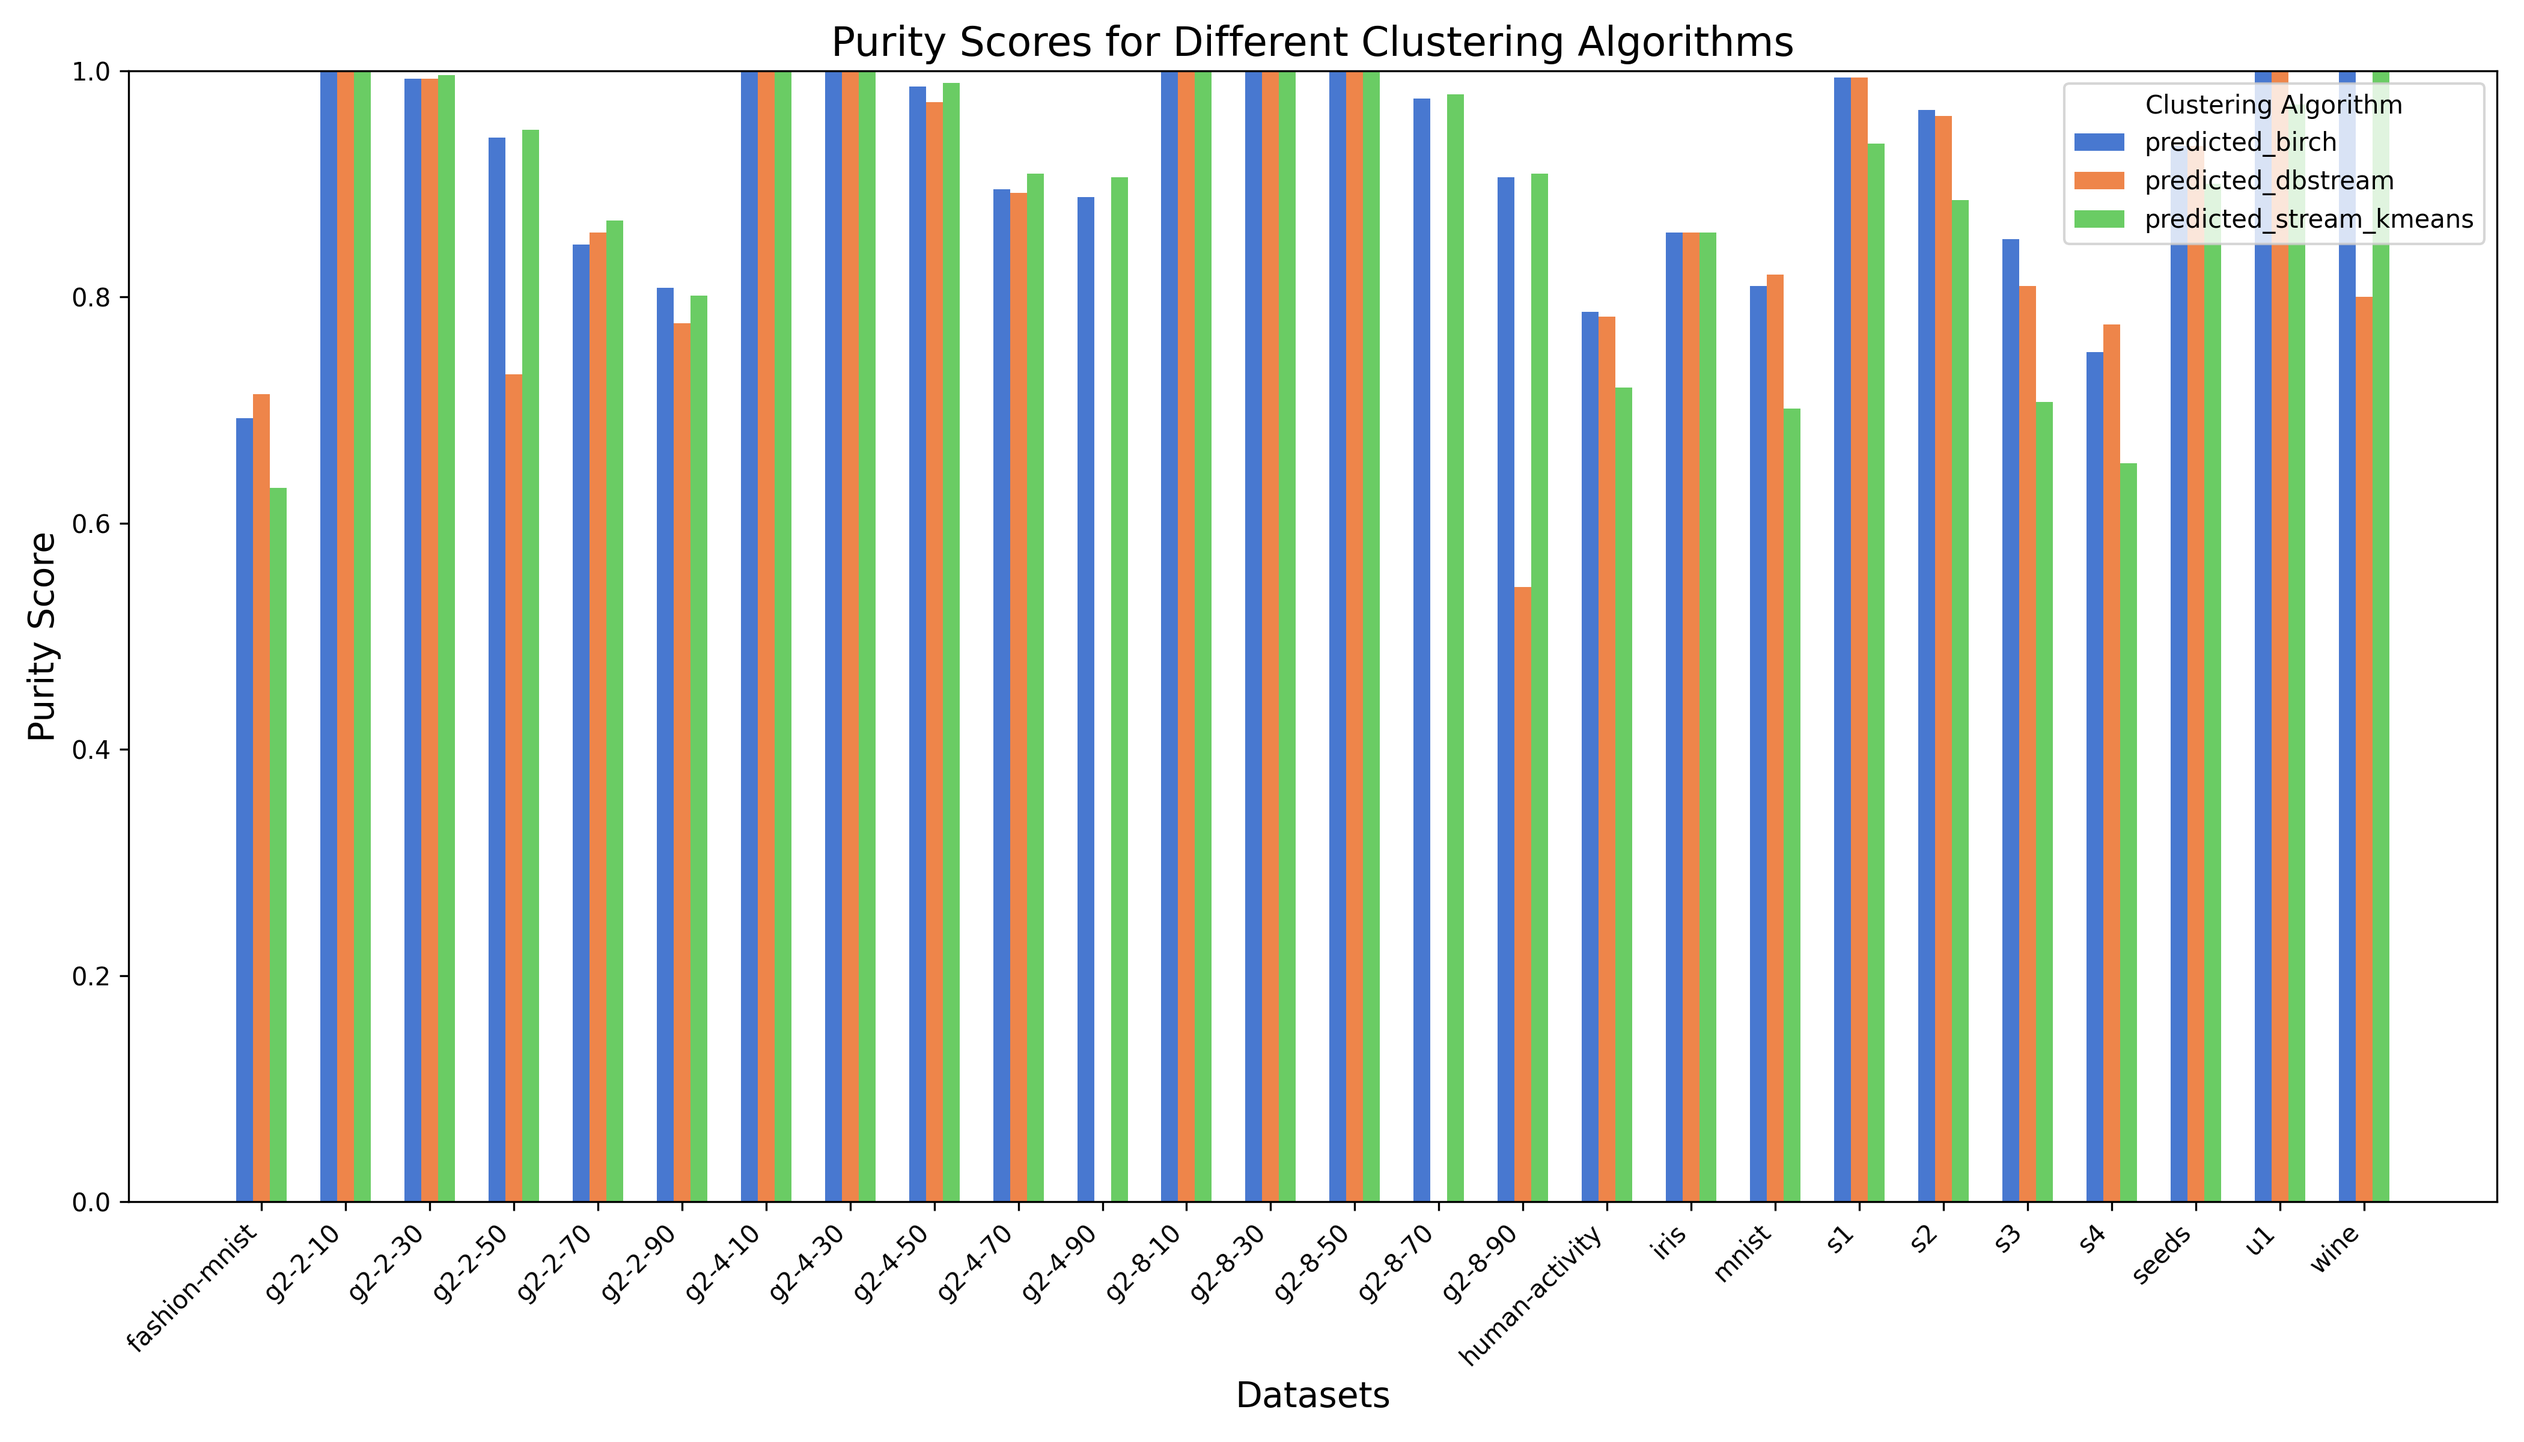
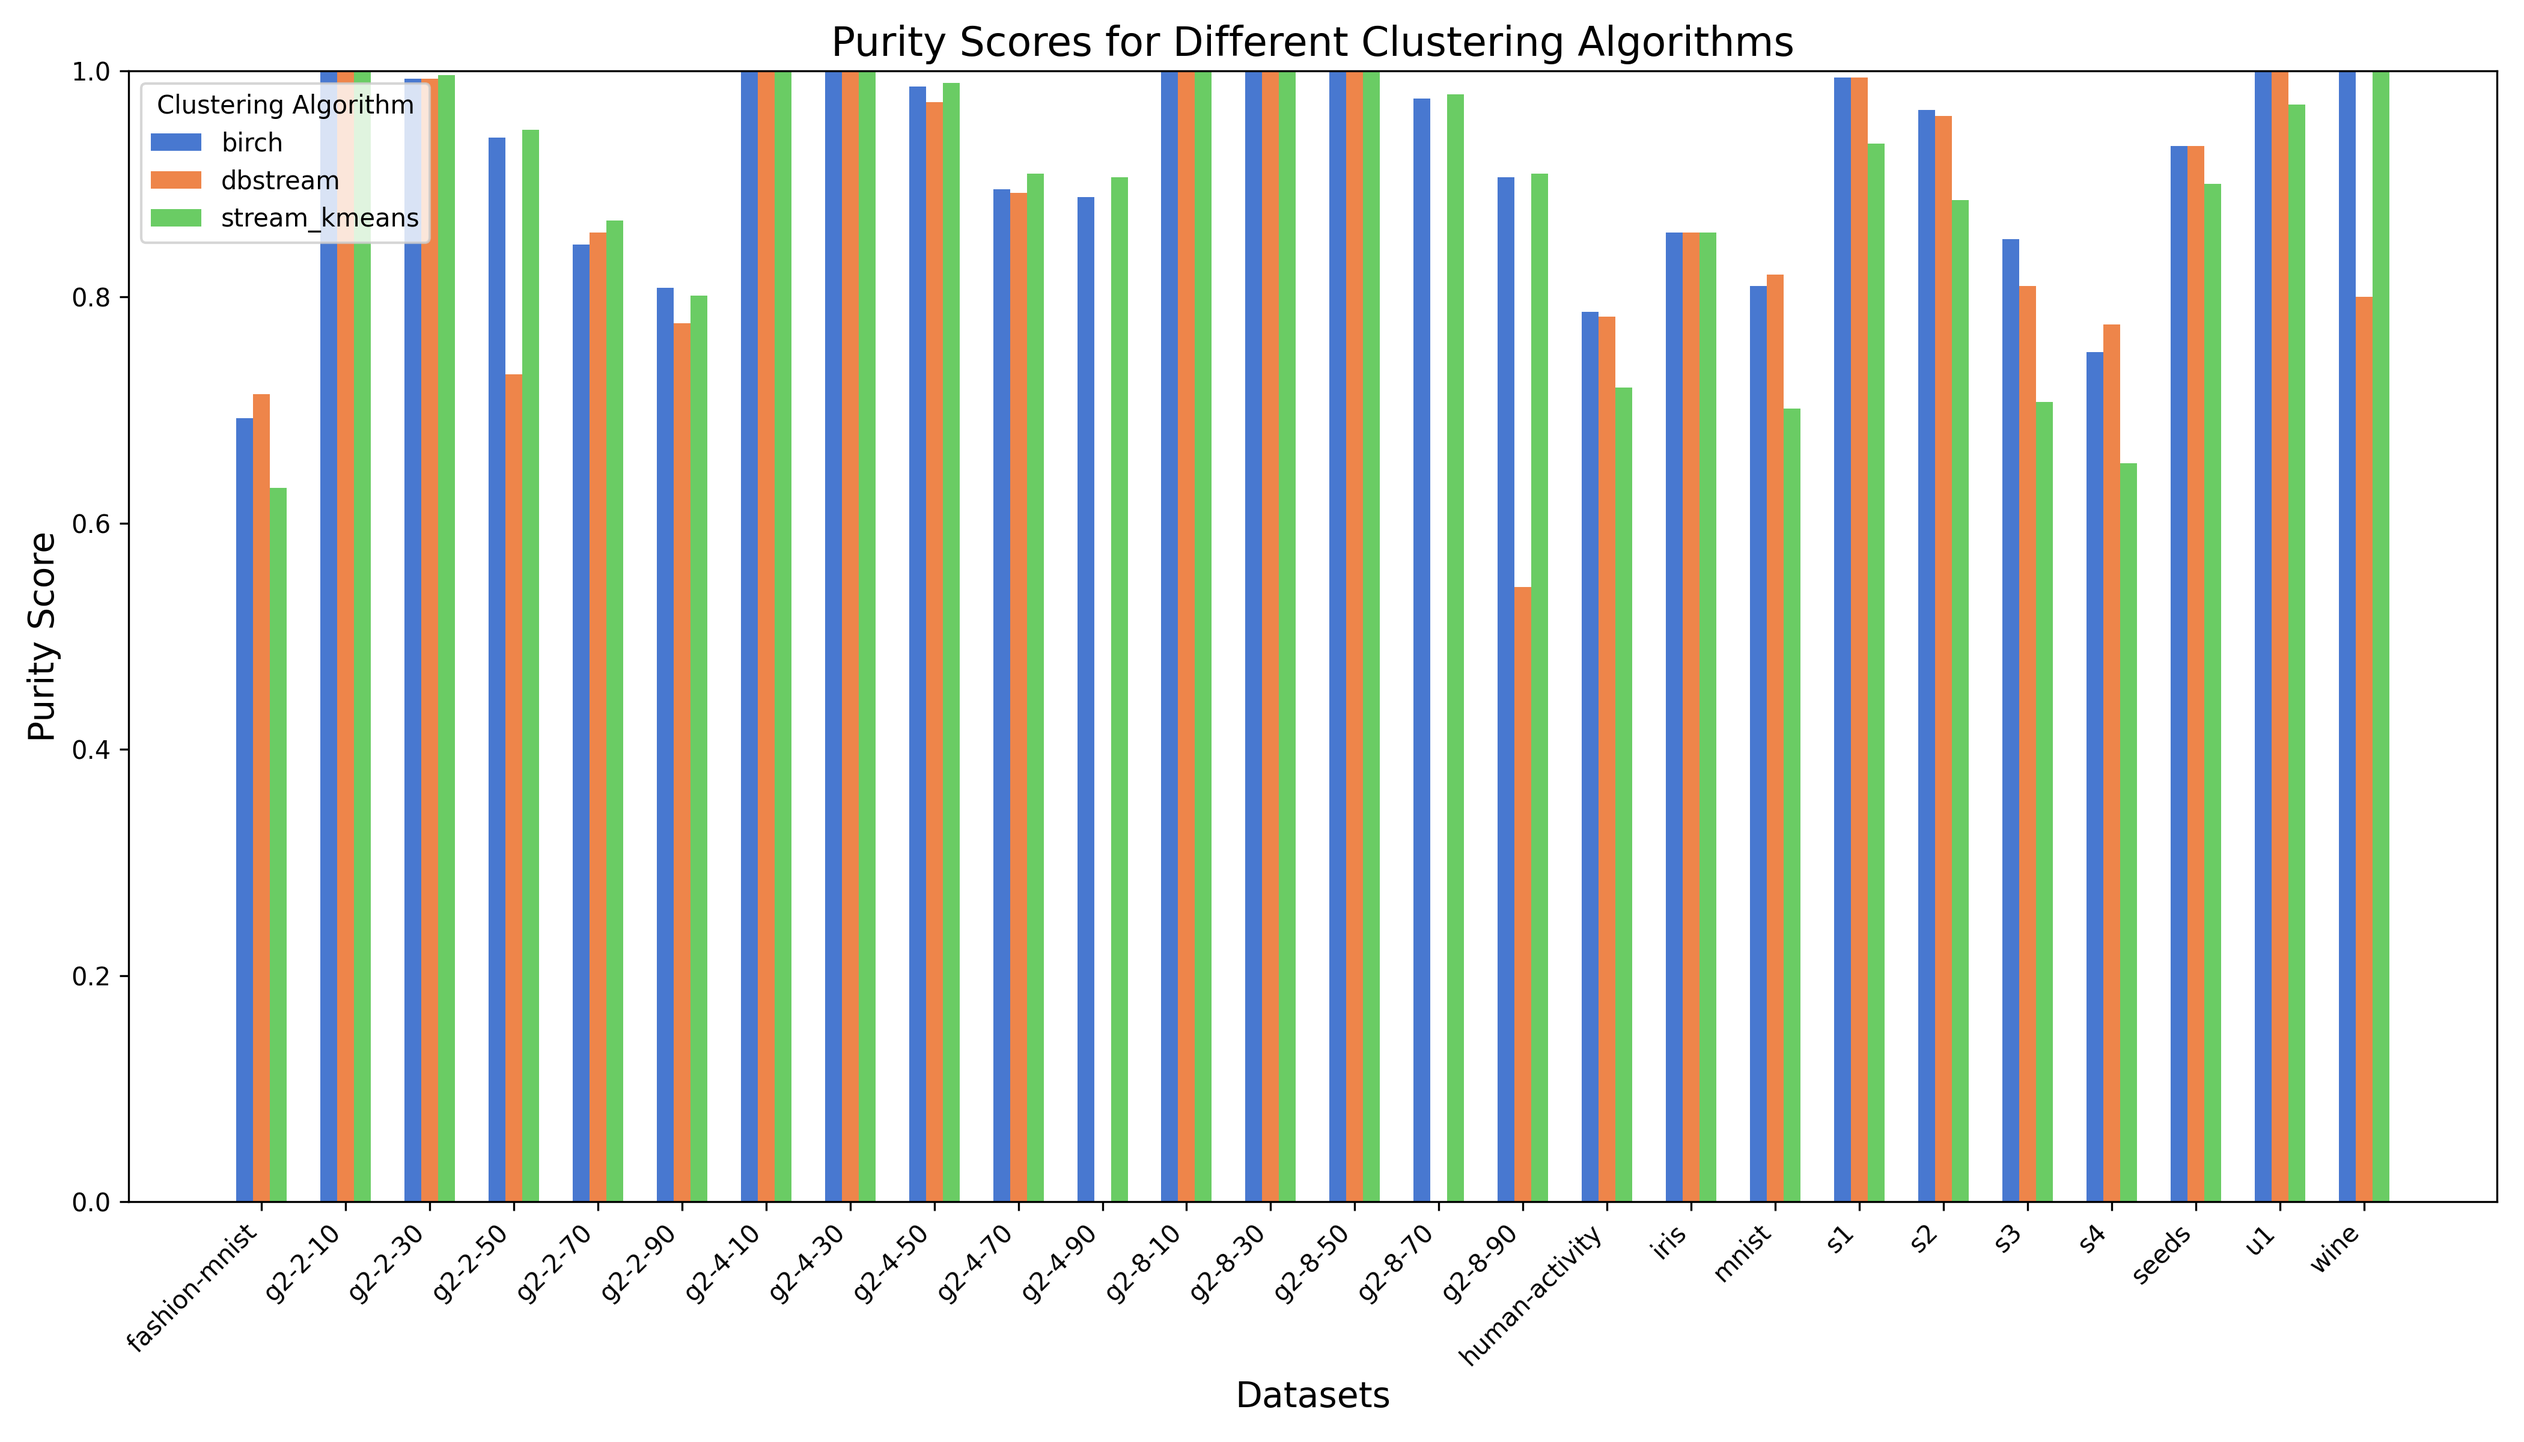
Add plot clustering results

Changed region(s): [[0.811, 0.0625, 0.9669, 0.1875], [0.0624, 0.0312, 0.1871, 0.1875]]

diff --git a/visualize_last_step_clustering_results.py b/visualize_last_step_clustering_results.py
@@ -1,0 +1,164 @@
+import os
+import pandas as pd
+import matplotlib.pyplot as plt
+import numpy as np
+from sklearn.metrics import confusion_matrix
+from scipy.optimize import linear_sum_assignment
+import argparse
+
+# Function to map predicted clusters to ground truth using the Hungarian algorithm
+def map_clusters_to_ground_truth(labels_true, labels_pred):
+    """
+    Maps clustering algorithm output to ground truth labels using the Hungarian algorithm.
+    :param labels_true: Ground truth labels.
+    :param labels_pred: Predicted cluster labels.
+    :return: Remapped predicted labels.
+    """
+    # Calculate the confusion matrix
+    cm = confusion_matrix(labels_true, labels_pred)
+    # Apply the Hungarian algorithm to the negative confusion matrix for maximum matching
+    row_ind, col_ind = linear_sum_assignment(-cm)
+
+    # Create a new array to hold the remapped predicted labels
+    remapped_labels_pred = np.zeros_like(labels_pred)
+    # For each original cluster index, find the new label (according to the Hungarian algorithm)
+    # and assign it in the remapped labels array
+    for original_cluster, new_label in zip(col_ind, row_ind):
+        remapped_labels_pred[labels_pred == original_cluster] = new_label
+
+    return remapped_labels_pred
+
+def get_dataset_names(directory):
+    """Return a list of dataset names (folder names) in the given directory."""
+    return sorted([name for name in os.listdir(directory) if os.path.isdir(os.path.join(directory, name))])
+
+def read_csv_files(dir_path, dataset_name):
+    """Read the CSV files for the given dataset from the specified directory."""
+    csv_files = [file for file in os.listdir(dir_path) if file.endswith('.csv') and dataset_name in file]
+    csv_files.sort()  # Ensure files are sorted to pick the last one for each condition
+    return csv_files
+
+def visualize_labels(true_data, birch_data, streamkmeans_data, dbstream_data, output_path):
+    """Visualize the true and predicted labels for the given datasets."""
+    plt.figure(figsize=(12, 10))
+
+    # Define colors for each label
+    colors = ['blue', 'orange', 'green', 'red', 'purple', 'brown', 'pink', 'gray', 'olive', 'cyan']
+
+    # Plot True Labels (common for all)
+    plt.subplot(2, 2, 1)
+    for label in sorted(true_data['TrueLabel'].unique()):
+        subset = true_data[true_data['TrueLabel'] == label]
+        plt.scatter(subset['Feature_0'], subset['Feature_1'], color=colors[label % len(colors)], label=f'True Label {label}')
+    plt.xlabel('Feature 0')
+    plt.ylabel('Feature 1')
+    plt.title('True Labels')
+    plt.grid(True)
+
+    # Plot Birch Predicted Labels
+    plt.subplot(2, 2, 2)
+    for label in sorted(birch_data['MappedPredictedLabel'].unique()):
+        subset = birch_data[birch_data['MappedPredictedLabel'] == label]
+        plt.scatter(subset['Feature_0'], subset['Feature_1'], color=colors[label % len(colors)])
+    plt.xlabel('Feature 0')
+    plt.ylabel('Feature 1')
+    plt.title('BIRCH Predicted Labels')
+    plt.grid(True)
+
+    # Plot StreamKMeans Predicted Labels
+    plt.subplot(2, 2, 3)
+    for label in sorted(streamkmeans_data['MappedPredictedLabel'].unique()):
+        subset = streamkmeans_data[streamkmeans_data['MappedPredictedLabel'] == label]
+        plt.scatter(subset['Feature_0'], subset['Feature_1'], color=colors[label % len(colors)])
+    plt.xlabel('Feature 0')
+    plt.ylabel('Feature 1')
+    plt.title('StreamKMeans Predicted Labels')
+    plt.grid(True)
+
+    # Plot DBStream Predicted Labels
+    plt.subplot(2, 2, 4)
+    for label in sorted(dbstream_data['MappedPredictedLabel'].unique()):
+        subset = dbstream_data[dbstream_data['MappedPredictedLabel'] == label]
+        plt.scatter(subset['Feature_0'], subset['Feature_1'], color=colors[label % len(colors)])
+    plt.xlabel('Feature 0')
+    plt.ylabel('Feature 1')
+    plt.title('DBStream Predicted Labels')
+    plt.grid(True)
+
+    # Save the plot to a file
+    plt.tight_layout()
+    plt.savefig(output_path)
+    plt.close()
+
+def main(birch_dir, dbstream_dir, stream_kmeans_dir, output_dir):
+    # Get dataset names from each directory
+    birch_datasets = get_dataset_names(birch_dir)
+    dbstream_datasets = get_dataset_names(dbstream_dir)
+    stream_kmeans_datasets = get_dataset_names(stream_kmeans_dir)
+
+    # Ensure the datasets are the same across all directories
+    if not (birch_datasets == dbstream_datasets == stream_kmeans_datasets):
+        raise ValueError("Datasets do not match across directories!")
+
+    datasets = birch_datasets  # Since all are the same, we can use any
+
+    # Create the output directory if it does not exist
+    os.makedirs(output_dir, exist_ok=True)
+
+    # Iterate over each dataset
+    for dataset_name in datasets:
+        print(f"Processing dataset: {dataset_name}")
+
+        # Read the CSV files for each dataset condition
+        birch_files = read_csv_files(os.path.join(birch_dir, dataset_name), dataset_name)
+        dbstream_files = read_csv_files(os.path.join(dbstream_dir, dataset_name), dataset_name)
+        streamkmeans_files = read_csv_files(os.path.join(stream_kmeans_dir, dataset_name), dataset_name)
+
+        if not (birch_files and dbstream_files and streamkmeans_files):
+            print(f"Skipping {dataset_name} due to missing files.")
+            continue
+
+        # Filter dataset conditions
+        conditions = ['mild_gaussian-noise', 'mild_knock-out', 'moderate_gaussian-noise', 'moderate_knock-out', 'severe_gaussian-noise', 'severe_knock-out']
+
+        for condition in conditions:
+            # Get the files corresponding to the condition
+            condition_birch_files = [file for file in birch_files if condition in file]
+            condition_dbstream_files = [file for file in dbstream_files if condition in file]
+            condition_streamkmeans_files = [file for file in streamkmeans_files if condition in file]
+
+            if not (condition_birch_files and condition_dbstream_files and condition_streamkmeans_files):
+                print(f"Skipping condition {condition} for dataset {dataset_name} due to missing files.")
+                continue
+
+            # Read the last file (assumed to be the most recent step) for each algorithm
+            birch_df = pd.read_csv(os.path.join(birch_dir, dataset_name, condition_birch_files[-1]))
+            dbstream_df = pd.read_csv(os.path.join(dbstream_dir, dataset_name, condition_dbstream_files[-1]))
+            streamkmeans_df = pd.read_csv(os.path.join(stream_kmeans_dir, dataset_name, condition_streamkmeans_files[-1]))
+
+            # Get the true labels
+            true_labels = birch_df[['Feature_0', 'Feature_1', 'TrueLabel']].copy()
+
+            # Map predicted labels to true labels for consistent coloring
+            birch_df['MappedPredictedLabel'] = map_clusters_to_ground_truth(birch_df['TrueLabel'], birch_df['PredictedLabel'])
+            dbstream_df['MappedPredictedLabel'] = map_clusters_to_ground_truth(dbstream_df['TrueLabel'], dbstream_df['PredictedLabel'])
+            streamkmeans_df['MappedPredictedLabel'] = map_clusters_to_ground_truth(streamkmeans_df['TrueLabel'], streamkmeans_df['PredictedLabel'])
+
+            # Create condition-specific output directory
+            condition_output_dir = os.path.join(output_dir, f'{dataset_name}_{condition}')
+            os.makedirs(condition_output_dir, exist_ok=True)
+
+            # Visualize the true and predicted labels
+            output_path = os.path.join(condition_output_dir, f'visualization_{dataset_name}_{condition}.png')
+            visualize_labels(true_labels, birch_df, streamkmeans_df, dbstream_df, output_path)
+
+if __name__ == "__main__":
+    parser = argparse.ArgumentParser(description='Visualize clustering results for datasets.')
+    parser.add_argument('birch_dir', type=str, help='Directory containing BIRCH predicted label CSV files')
+    parser.add_argument('dbstream_dir', type=str, help='Directory containing DBSTREAM predicted label CSV files')
+    parser.add_argument('stream_kmeans_dir', type=str, help='Directory containing STREAM_KMEANS predicted label CSV files')
+    parser.add_argument('output_dir', type=str, help='Directory to save the output plots')
+
+    args = parser.parse_args()
+
+    main(args.birch_dir, args.dbstream_dir, args.stream_kmeans_dir, args.output_dir)

diff --git a/visualize_best_params_purity.py b/visualize_best_params_purity.py
@@ -16,15 +16,15 @@ def truncate_name(name, length=14):
 def main(birch_dir, dbstream_dir, stream_kmeans_dir):
     # Define the paths to the directories containing the datasets for each algorithm
     dirs = {
-        "predicted_birch": birch_dir,
-        "predicted_dbstream": dbstream_dir,
-        "predicted_stream_kmeans": stream_kmeans_dir
+        "birch": birch_dir,
+        "dbstream": dbstream_dir,
+        "stream_kmeans": stream_kmeans_dir
     }
 
     # Get datasets for each algorithm
-    datasets_birch = get_datasets(dirs["predicted_birch"])
-    datasets_dbstream = get_datasets(dirs["predicted_dbstream"])
-    datasets_stream_kmeans = get_datasets(dirs["predicted_stream_kmeans"])
+    datasets_birch = get_datasets(dirs["birch"])
+    datasets_dbstream = get_datasets(dirs["dbstream"])
+    datasets_stream_kmeans = get_datasets(dirs["stream_kmeans"])
 
     # Ensure the datasets are the same across all directories
     if not (datasets_birch == datasets_dbstream == datasets_stream_kmeans):

diff --git a/README.md b/README.md
@@ -91,6 +91,11 @@ run dbstream:  `./run_clustering_dbstream.sh grouped_processed_data+dataset_shif
 run streamKMeans:  `./run_clustering_stream_kmeans.sh grouped_processed_data+dataset_shift/ predicted_stream_kmeans`
 
 ## Step 8 - plot clustering results for each dataset
+We visualize the best purity achieved by each clustering algorithm as a histogram to validate our clustering algorithm accuracy
+run: `python visualize_best_params_purity.py predicted_birch/ predicted_dbstream/ predicted_stream_kmeans/`
+
+We visualize GT (Ground Truth), and predicted results from each clustering algorithm for all the datasets with and without dataset shift
+run: `python visualize_last_step_clustering_results.py predicted_birch/ predicted_dbstream/ predicted_stream_kmeans/ plots_predicted_last_step`
 
 ## Step 8 - compute CVIs
 run: `./run_compute_CVIs+running_time.sh ./predicted_birch/ predicted_birch+CVIs predicted_birch+time`
